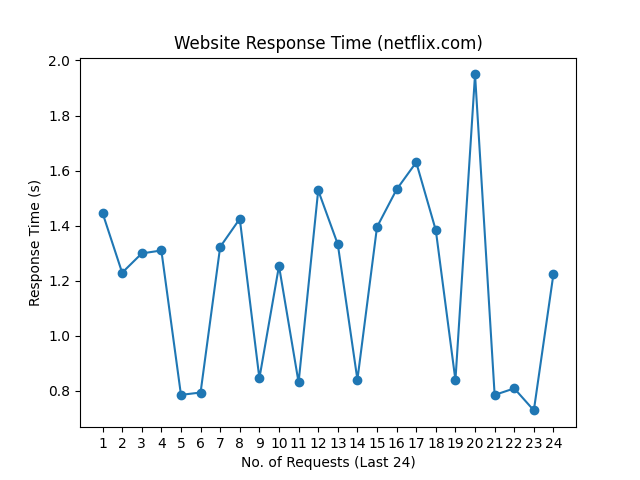
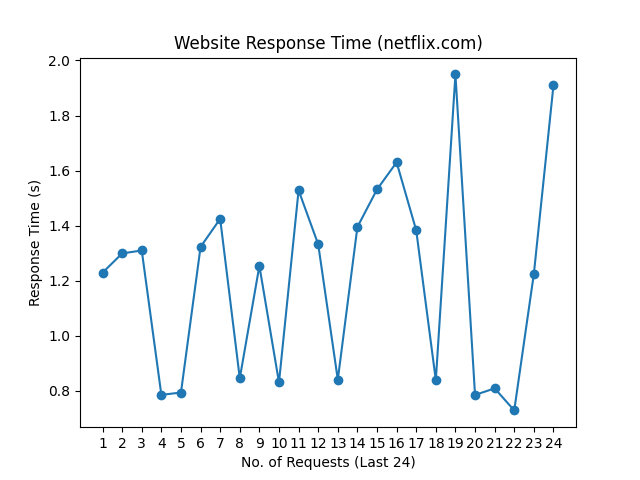
update README.md, history and graph

Changed region(s): [[0.1562, 0.125, 0.875, 0.875], [0.8438, 0.1562, 0.875, 0.4375]]

diff --git a/README.md b/README.md
@@ -1,10 +1,10 @@
 # Web Monitoring
 
-Last Checked: 02/01/2025 08:20
+Last Checked: 03/01/2025 08:20
 
 | Website | Response Time (s) | Status | Avg Uptime (%) |
 |---------|-------------------|--------|----------------|
 | www.thiswebsiteisdown.net | 0 <br> <img src="graph/thiswebsiteisdown.net.png" alt="Graph" width="200" height="200">  | ❌ Down | 0.00 |
-| www.netflix.com | 1.224033 <br> <img src="graph/netflix.com.png" alt="Graph" width="200" height="200">  | ✅ Up | 99.81 |
-| www.google.com | 0.087349 <br> <img src="graph/google.com.png" alt="Graph" width="200" height="200">  | ✅ Up | 100.00 |
-| www.facebook.com | 0.687044 <br> <img src="graph/facebook.com.png" alt="Graph" width="200" height="200">  | ✅ Up | 100.00 |
+| www.netflix.com | 1.909349 <br> <img src="graph/netflix.com.png" alt="Graph" width="200" height="200">  | ✅ Up | 99.81 |
+| www.google.com | 0.074291 <br> <img src="graph/google.com.png" alt="Graph" width="200" height="200">  | ✅ Up | 100.00 |
+| www.facebook.com | 0.661552 <br> <img src="graph/facebook.com.png" alt="Graph" width="200" height="200">  | ✅ Up | 100.00 |
